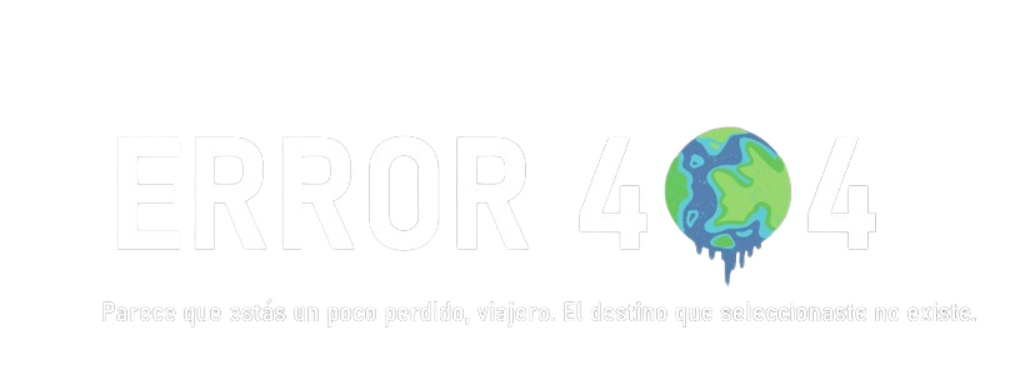
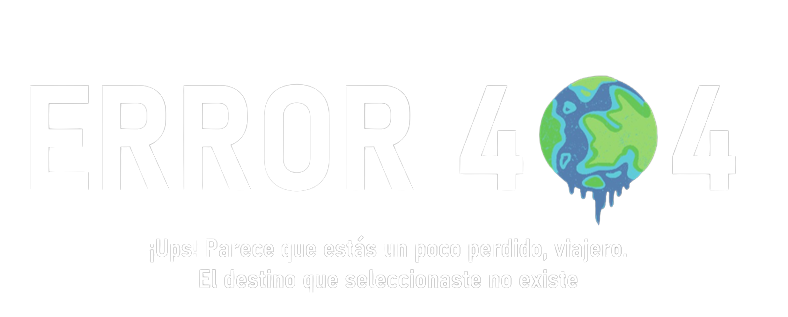
Modificando imagen error 404

diff --git a/travel-app-design/src/componentes/error404/Error404.jsx b/travel-app-design/src/componentes/error404/Error404.jsx
@@ -1,7 +1,7 @@
 import "./404Style.css";
 import "../prePortada/PrePortadaStyle.css";
 import { Video } from "../background/Video";
-import img404 from "../../medio/error404-bg2.png";
+import img404 from "../../medio/error404-bg.png";
 import Bg404 from "../../medio/bg404.mp4";
 import mobileIcon from "../../medio/error404-mobileIcon.png";
 import { Logo } from "../logo/Logo";

diff --git a/travel-app-design/src/componentes/error404/404Style.css b/travel-app-design/src/componentes/error404/404Style.css
@@ -1,5 +1,5 @@
 .error-container{
-    margin: 45px;
+    margin: 15px;
 }
 
 .error-icon{
